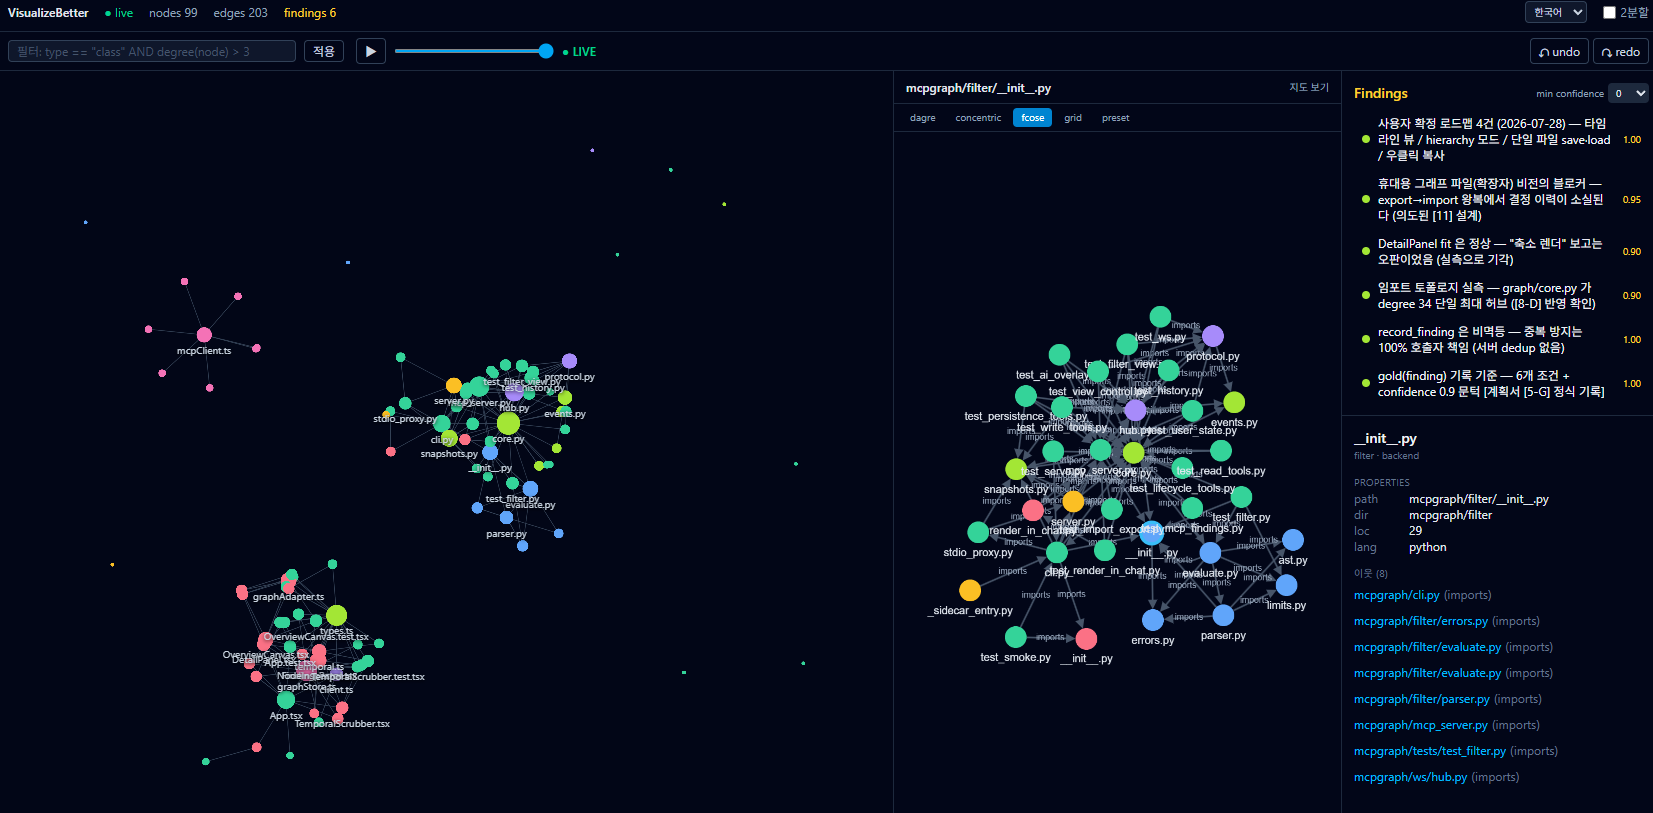
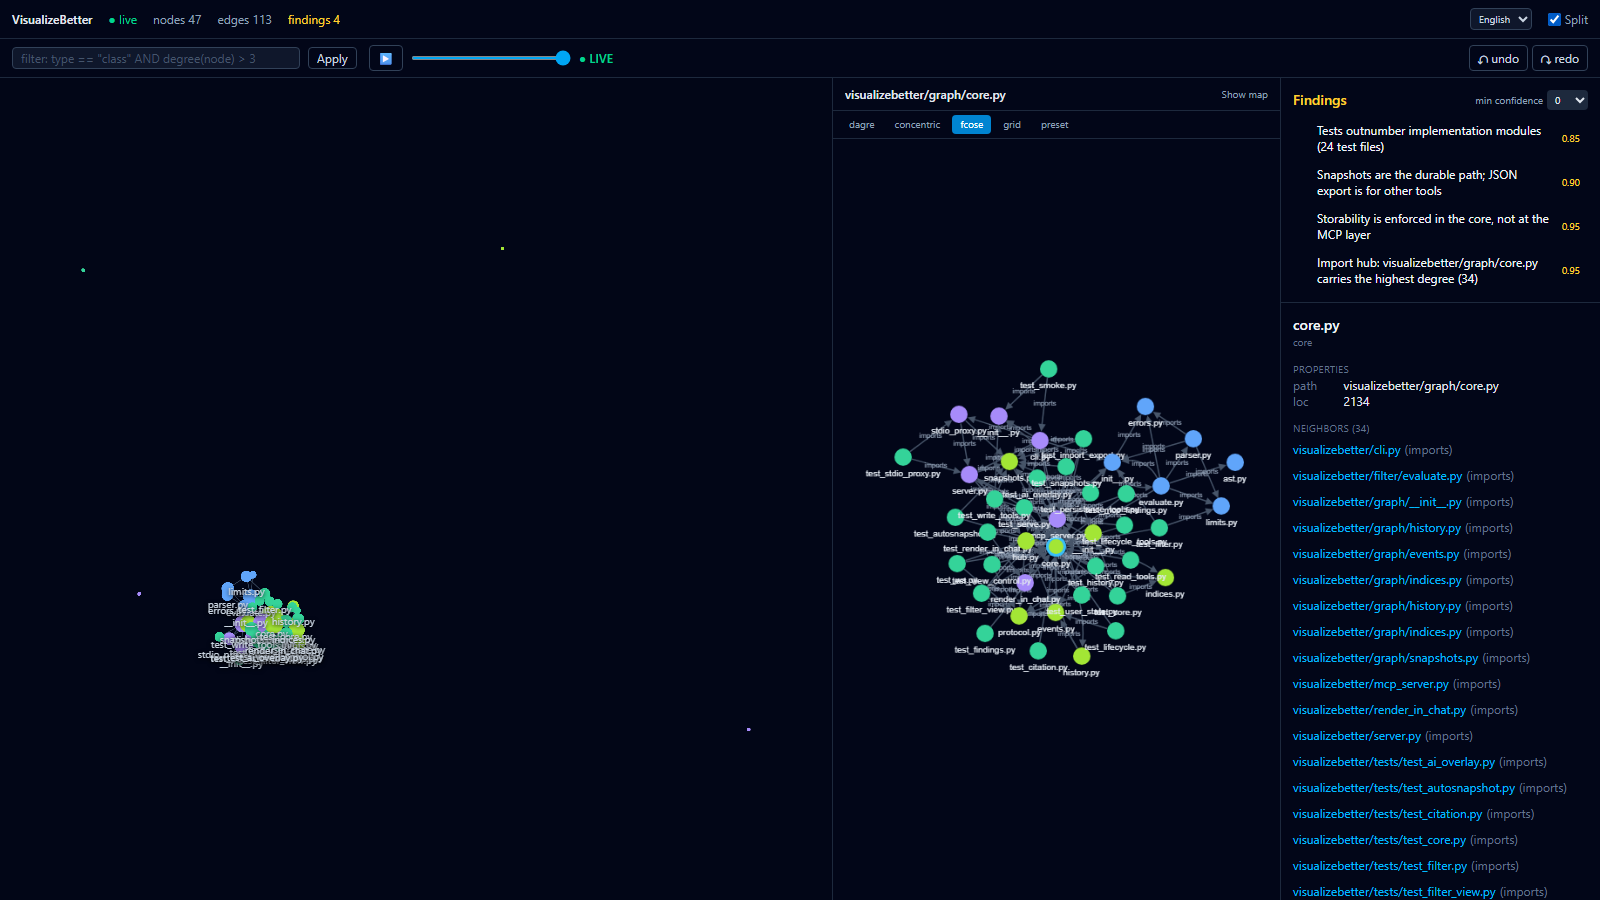
PUB1 P4: 히어로 스크린샷 재촬영 — 구 브랜드·비공개 인용 제거
기존 이미지는 텍스트 grep 이 볼 수 없는 잔재였다. 상세 패널·인스펙터·이웃
목록이 공개 트리에 없는 mcpgraph/... 경로를 보이고, Findings 패널이 내부
계획서 섹션 번호를 인용하고 있었다.

- 현 트리(visualizebetter/*)로 그래프를 재구성했다. finding 4건은 코드
  사실만 서술한다 — 임포트 허브(graph/core.py, degree 34), 게이트가 MCP 가
  아니라 코어에 있는 이유, 스냅샷 대 JSON export(KNOWN_ISSUES KI-2 참조),
  테스트 파일 비중. 계획서 인용 0건.
- frontend/e2e/capture-hero.spec.ts 로 촬영을 재현 가능하게 만들었다.
  손으로 브라우저를 몰아 찍은 결과가 조용히 낡았던 것(리네임 한참 뒤에도
  옛 경로를 보이고 있었다)이 이 하니스를 만든 이유다. CAPTURE_HERO=1 없이는
  skip 되므로 일반 스위트 실행이 커밋된 이미지를 덮지 않는다.
- 3분할 구도 복원: overview + fcose detail + findings/inspector. 상세와
  인스펙터를 채우기 위해 AI 가 실제로 부르는 focus_on tool 로 허브를
  포커스한다 — 이미지가 보여주려는 상호작용 그 자체다.
- 영/한 README 가 각자 자기 언어의 UI 를 싣는다(CAPTURE_LANG=ko 변형).
  영문 페이지에 한국어 UI 이미지가 실려 있던 문제를 해소했다.

구 PNG 는 히스토리에 남는다 — 이 커밋은 "앞으로 보이는 것"만 고친다.

diff --git a/frontend/e2e/capture-hero.spec.ts b/frontend/e2e/capture-hero.spec.ts
@@ -1,0 +1,65 @@
+/**
+ * Hero screenshot capture (docs/screenshot-self-visualization.png).
+ *
+ * Not a test — a capture harness kept next to the E2E suite because it needs the
+ * same thing the suite needs: a real `visualizebetter serve`, the built SPA, and a
+ * genuine WebGL context. Driving a personal browser by hand produced a screenshot
+ * that quietly aged (it showed pre-rename paths long after the rename), so the
+ * shot is reproducible instead.
+ *
+ * Point it at a server whose graph already holds what you want photographed:
+ *
+ *   VISUALIZEBETTER_URL=http://127.0.0.1:8765 \
+ *     npx playwright test e2e/capture-hero.spec.ts
+ *
+ * Skipped unless CAPTURE_HERO=1, so a normal suite run does not overwrite the
+ * committed image.
+ */
+import { expect, test } from '@playwright/test'
+import { callTool, connectMcp } from '../perf/mcpClient'
+
+const LANG = process.env.CAPTURE_LANG === 'ko' ? 'ko' : 'en'
+const OUT =
+  LANG === 'ko'
+    ? '../docs/screenshot-self-visualization.ko.png'
+    : '../docs/screenshot-self-visualization.png'
+
+test.skip(process.env.CAPTURE_HERO !== '1', 'set CAPTURE_HERO=1 to re-shoot the hero image')
+
+test('capture the hero screenshot', async ({ page }) => {
+  test.setTimeout(180_000)
+  await page.setViewportSize({ width: 1600, height: 900 })
+  await page.goto('/')
+
+  // The UI language is per-user state. Each README shows its own language —
+  // an English page carrying a Korean-UI screenshot was the original problem.
+  await page.evaluate((lang) => {
+    localStorage.setItem('vb.lang', lang)
+  }, LANG)
+  await page.reload()
+
+  // Wait for real content rather than a fixed sleep: the overview only has
+  // something worth photographing once the graph has arrived and cosmos has laid
+  // it out.
+  await expect(page.locator('canvas').first()).toBeVisible({ timeout: 60_000 })
+  await page.waitForFunction(
+    async () => (await (await fetch('/graph.json')).json()).nodes.length > 0,
+    undefined,
+    { timeout: 60_000 },
+  )
+
+  // Split view: the point of the product is the two views side by side, so a
+  // hero shot of the overview alone undersells it.
+  await connectMcp()
+  const split = page.getByTestId('split-toggle').locator('input')
+  if (!(await split.isChecked())) await split.check()
+
+  // Focus the import hub through the same MCP tool an AI would call — that is
+  // the interaction the image is supposed to show, and it fills the detail view
+  // and the inspector with real content instead of an empty-state message.
+  await callTool('focus_on', { node_id: 'visualizebetter/graph/core.py' })
+
+  await page.waitForTimeout(8000) // force layout + fcose settle
+  await page.screenshot({ path: OUT, fullPage: false })
+  console.log(`wrote ${OUT}`)
+})

diff --git a/visualizebetter/graph/snapshots.py b/visualizebetter/graph/snapshots.py
@@ -46,7 +46,7 @@ DB_FILENAME = "visualizebetter.sqlite3"
 # Pre-rename identities (the project was "mcpgraph" until 2026-07-28). Existing
 # users carry a populated store under the old names; a fresh default dir would
 # silently orphan every snapshot, so both are migrated once, best-effort.
-# Hardened per [23-C] ★ (Fable 확정): canonical-pair trigger, adoption,
+# Hardened by a confirmed design decision: canonical-pair trigger, adoption,
 # recover-then-migrate, live-serve guard, race-safe fallbacks, warning logs.
 _LEGACY_DIR_NAME = "mcpgraph"
 _LEGACY_DB_FILENAME = "mcpgraph.sqlite3"

diff --git a/README.ko.md b/README.ko.md
@@ -15,7 +15,7 @@
 
 **[English](./README.md)** | 한국어
 
-<img src="./docs/screenshot-self-visualization.png" alt="VisualizeBetter가 자기 자신의 저장소를 시각화한 화면 — 왼쪽 개요 클러스터, 가운데 fcose 상세 뷰, 오른쪽 인스펙터와 findings 패널" width="100%" />
+<img src="./docs/screenshot-self-visualization.ko.png" alt="VisualizeBetter가 자기 자신의 저장소를 시각화한 화면 — 왼쪽 개요 클러스터, 가운데 fcose 상세 뷰, 오른쪽 인스펙터와 findings 패널" width="100%" />
 
 *VisualizeBetter가 자기 자신의 저장소를 라이브로 시각화한 화면 — 개요의
 backend/frontend/test 클러스터, fcose 상세 뷰, 노드 인스펙터, 그리고 findings
